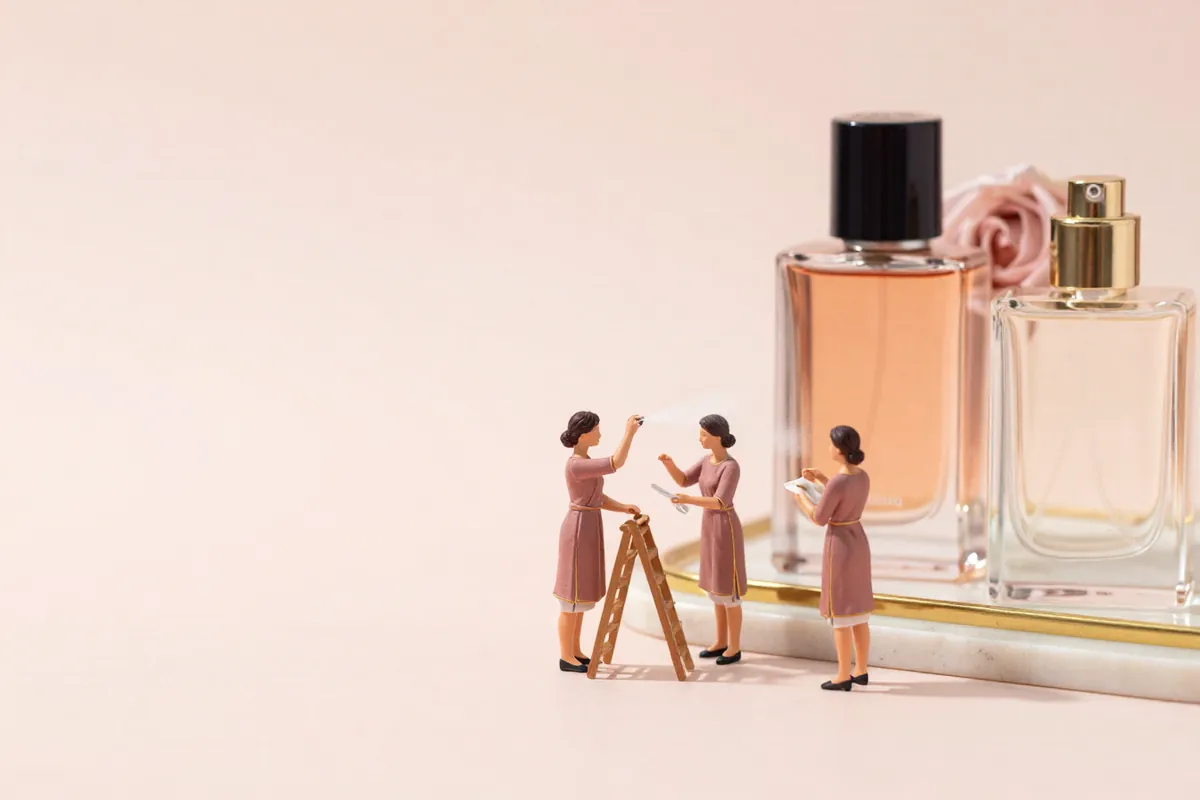
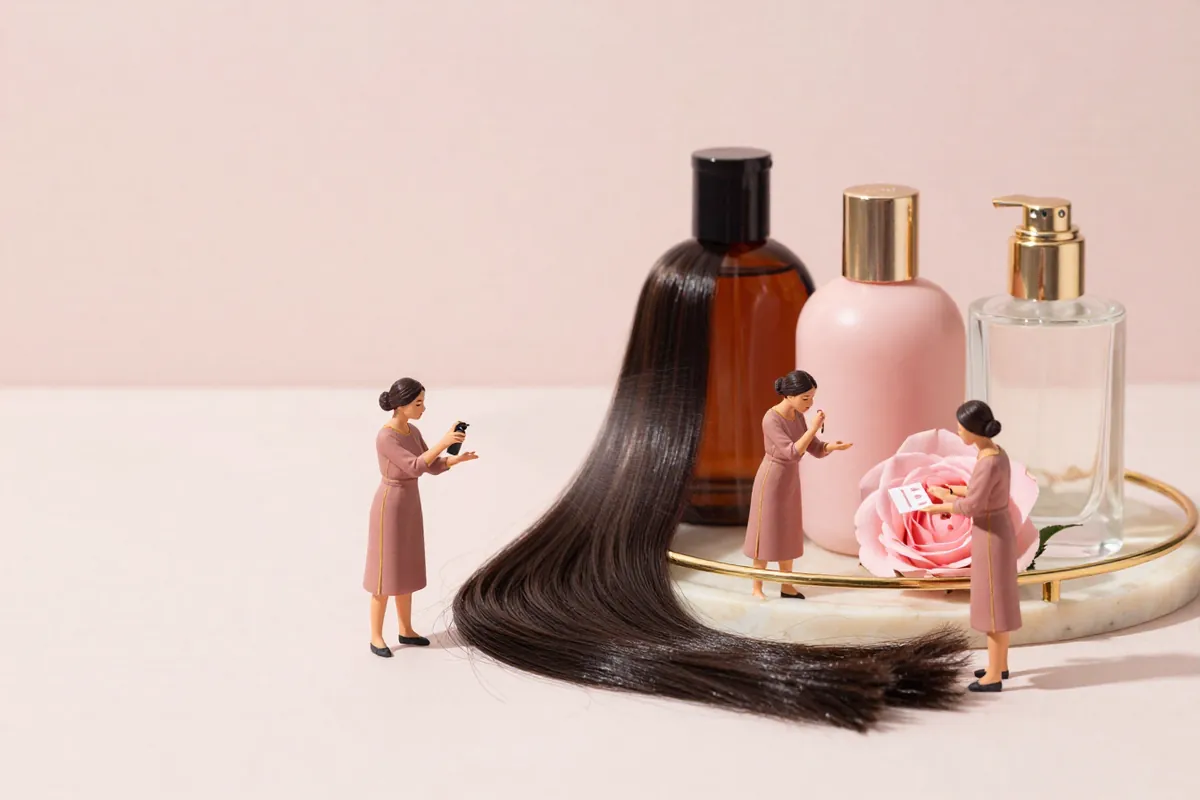
Rituels : toutes les tuiles en images figurines (boissons, parfum, douche privée à la place du miroir, lavage, hijab, prière)

diff --git a/index.html b/index.html
@@ -700,6 +700,13 @@
   #sigTag { font-family: var(--helv); font-size: 34px; letter-spacing: .6em; fill: var(--ink-2); opacity: 0; transition: opacity .9s ease .1s, letter-spacing 1.4s cubic-bezier(.2, .8, .2, 1); }
   .sig.done #sigTag { opacity: 1; letter-spacing: .38em; }
   @media (max-width: 700px) { .sig { min-height: 52vh; } }
+
+  .tile.w2.has-shot { min-height: 540px; }
+  .tile.has-shot.wide { min-height: 460px; }
+  .tile.has-shot.wide .shot { top: 0; left: auto; right: 0; width: 62%; height: 100%; object-position: 70% 55%; -webkit-mask-image: linear-gradient(90deg, transparent, #000 26%); mask-image: linear-gradient(90deg, transparent, #000 26%); }
+  .tile.has-shot.wide h3, .tile.has-shot.wide p { max-width: 36%; }
+  html[dir="rtl"] .tile.has-shot.wide .shot { right: auto; left: 0; -webkit-mask-image: linear-gradient(270deg, transparent, #000 26%); mask-image: linear-gradient(270deg, transparent, #000 26%); }
+  @media (max-width: 980px) { .tile.has-shot.wide { min-height: 600px; } .tile.has-shot.wide .shot { top: auto; width: 100%; height: 60%; -webkit-mask-image: linear-gradient(180deg, transparent, #000 24%); mask-image: linear-gradient(180deg, transparent, #000 24%); } .tile.has-shot.wide h3, .tile.has-shot.wide p { max-width: none; } }
 </style>
 </head>
 <body>
@@ -1000,20 +1007,20 @@
         <p data-i18n="r1p">Matcha latte, iced or strawberry matcha, cappuccino, Arabic coffee with dates, karak tea, fresh mint lemonade, fresh orange juice. While you wait, or in the chair.</p>
       </div>
       <div class="tile w3 perfume has-shot reveal">
-        <img class="shot" src="assets/img/ritual-perfume.webp" alt="Miniature QAMAR team spraying and testing oud, rose and musk perfumes on a marble tray" width="1200" height="800" loading="lazy" decoding="async">
+        <img class="shot" src="assets/img/ritual-perfume.webp" alt="Miniature QAMAR team spraying hair perfume on a lock of hair and testing oud, rose and musk" width="1200" height="800" loading="lazy" decoding="async">
         <span class="k" data-i18n="r3k">Perfume bar</span>
         <h3 data-i18n="r3t">Oud. Rose. Musk.</h3>
         <p data-i18n="r3p">Every look ends with a hair perfume you choose.</p>
       </div>
-      <div class="tile w6 photo reveal">
-        <span class="k" data-i18n="r4k">Infinity mirror room</span>
-        <h3 data-i18n="r4t">See yourself, infinitely.</h3>
-        <p data-i18n="r4p">A tunnel of glowing arches, an infinity mirror room, a flower ceiling and a photobooth that sends the shot straight to your phone.</p>
-        <canvas class="scene" data-scene="mirror" aria-hidden="true"></canvas>
+      <div class="tile w6 shower has-shot wide reveal">
+        <img class="shot" src="assets/img/ritual-shower.webp" alt="Miniature QAMAR team preparing a private marble shower with fluffy towels" width="1200" height="800" loading="lazy" decoding="async">
+        <span class="k" data-i18n="r4k">Private shower</span>
+        <h3 data-i18n="r4t">Your own shower.</h3>
+        <p data-i18n="r4p">Marble, rainfall shower, fluffy towels and products. While you shower, we steam and perfume your outfit.</p>
       </div>
-      <div class="tile w2 wash reveal"><canvas class="scene" data-scene="wash" aria-hidden="true"></canvas><span class="k" data-i18n="r2k">Wash lounge</span><h3 data-i18n="r2t">Look up. Breathe.</h3><p data-i18n="r2p">Velvet chairs, filtered water, a warm towel.</p></div>
-      <div class="tile w2 hijab reveal"><canvas class="scene" data-scene="hijab" aria-hidden="true"></canvas><span class="k" data-i18n="r6k">Hijab bar</span><h3 data-i18n="r6t">Steamed while you wait.</h3><p data-i18n="r6p">Pins and accessories to shop, a magnet to keep.</p></div>
-      <div class="tile w2 prayer reveal"><canvas class="scene" data-scene="prayer" aria-hidden="true"></canvas><span class="k" data-i18n="r5k">Prayer room</span><h3 data-i18n="r5t">A quiet place.</h3><p data-i18n="r5p">Prayer mats, qibla direction and a mirror.</p></div>
+      <div class="tile w2 wash has-shot reveal"><img class="shot" src="assets/img/ritual-wash.webp" alt="Miniature QAMAR team washing hair at a velvet basin" width="1200" height="800" loading="lazy" decoding="async"><span class="k" data-i18n="r2k">Wash lounge</span><h3 data-i18n="r2t">Look up. Breathe.</h3><p data-i18n="r2p">Velvet chairs, filtered water, a warm towel.</p></div>
+      <div class="tile w2 hijab has-shot reveal"><img class="shot" src="assets/img/ritual-hijab.webp" alt="Miniature QAMAR team steaming a blush hijab and folding an abaya" width="1200" height="800" loading="lazy" decoding="async"><span class="k" data-i18n="r6k">Hijab bar</span><h3 data-i18n="r6t">Steamed while you wait.</h3><p data-i18n="r6p">Pins and accessories to shop, a magnet to keep.</p></div>
+      <div class="tile w2 prayer has-shot reveal"><img class="shot" src="assets/img/ritual-prayer.webp" alt="A calm prayer room with aligned prayer rugs, prepared by the miniature QAMAR team" width="1200" height="800" loading="lazy" decoding="async"><span class="k" data-i18n="r5k">Prayer room</span><h3 data-i18n="r5t">A quiet place.</h3><p data-i18n="r5p">Prayer mats, qibla direction and a mirror.</p></div>
     </div>
   </div>
 </section>
@@ -1259,7 +1266,7 @@
     r1k: { en: 'Drinks bar', ar: 'بار المشروبات' }, r1t: { en: 'Something for every mood.', ar: 'لكل مزاج مشروبه.' }, r1p: { en: 'Matcha latte, iced or strawberry matcha, cappuccino, Arabic coffee with dates, karak tea, fresh mint lemonade, fresh orange juice. While you wait, or in the chair.', ar: 'ماتشا لاتيه، ماتشا مثلّجة أو بالفراولة، كابتشينو، قهوة عربية مع التمر، شاي كرك، ليمون بالنعناع، عصير برتقال طازج. أثناء الانتظار أو على الكرسي.' },
     r3k: { en: 'Perfume bar', ar: 'بار العطور' }, r3t: { en: 'Oud. Rose. Musk.', ar: 'عود. ورد. مسك.' }, r3p: { en: 'Every look ends with a hair perfume you choose.', ar: 'كل إطلالة تنتهي بعطر شعر تختارينه.' },
     c_oud: { en: 'Oud', ar: 'عود' }, c_rose: { en: 'Rose', ar: 'ورد' }, c_musk2: { en: 'Musk', ar: 'مسك' },
-    r4k: { en: 'Infinity mirror room', ar: 'غرفة المرآة اللانهائية' }, r4t: { en: 'See yourself, infinitely.', ar: 'انعكاسكِ… بلا نهاية.' }, r4p: { en: 'Step into our mirror room: glowing arches that go on forever, a neon moon in every reflection, and a photobooth that sends the shot straight to your phone.', ar: 'ادخلي غرفة المرايا: أقواس مضيئة بلا نهاية، قمر نيون في كل انعكاس، وكابينة تصوير ترسل الصورة إلى هاتفك.' },
+    r4k: { en: 'Private shower', ar: 'دشّ خاص' }, r4t: { en: 'Your own shower.', ar: 'دشّكِ الخاص.' }, r4p: { en: 'Marble, rainfall shower, fluffy towels and products. While you shower, we steam and perfume your outfit.', ar: 'رخام، دشّ مطري، مناشف ناعمة ومستحضرات. وأثناء الدشّ نكوي ملابسكِ بالبخار ونعطّرها.' },
     r2k: { en: 'Wash lounge', ar: 'ركن غسل الشعر' }, r2t: { en: 'Look up. Breathe.', ar: 'انظري للأعلى. تنفّسي.' }, r2p: { en: 'Velvet chairs, filtered water, a warm towel.', ar: 'كراسٍ مخملية، ماء مفلتر، منشفة دافئة.' },
     r6k: { en: 'Hijab bar', ar: 'ركن الحجاب' }, r6t: { en: 'Steamed while you wait.', ar: 'شيلتكِ تُكوى أثناء انتظاركِ.' }, r6p: { en: 'Pins and accessories to shop, a magnet to keep.', ar: 'دبابيس وإكسسوارات للتسوق، ومغناطيس هدية.' },
     r5k: { en: 'Prayer room', ar: 'غرفة الصلاة' }, r5t: { en: 'A quiet place.', ar: 'مكان هادئ.' }, r5p: { en: 'Prayer mats, qibla direction and a mirror.', ar: 'سجادات صلاة، اتجاه القبلة ومرآة.' },
